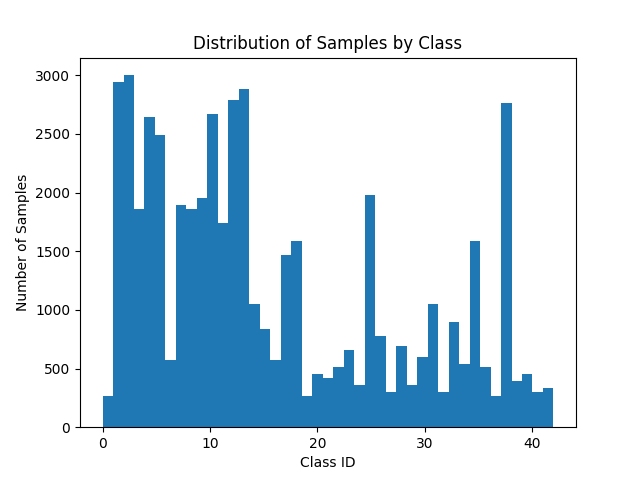
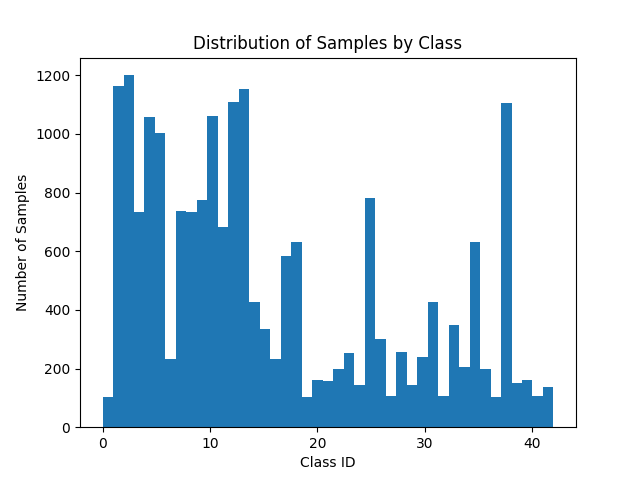
not overfitting

diff --git a/preprocess.py b/preprocess.py
@@ -6,7 +6,6 @@ from PIL import Image
 from plot import plot_class_dist_and_stats
 from config import NUM_TRAIN_IMAGES, NUM_TEST_IMAGES, NUM_TOTAL_IMAGES, IMAGE_DIM, N_CLASS
 
-
 def preprocess():
     processed_path = 'Data/ProcessedData'
     X_processed_path = os.path.join(processed_path, 'X.npy')
@@ -26,9 +25,6 @@ def preprocess():
       print("X_processed and Y_processed already exist, loading from files")
       X_processed = np.load(X_processed_path)
       Y_processed = np.load(Y_processed_path)
-
-      assert X_processed.shape == (NUM_TOTAL_IMAGES, 3, IMAGE_DIM, IMAGE_DIM)
-      assert Y_processed.shape == (NUM_TOTAL_IMAGES,)
 
       print("X_processed, Y_processed loaded successfully")
 
@@ -56,9 +52,18 @@ def preprocess():
 
         for _ , row in df.iterrows():
 
+          # for each physical sign in the training sets, there are 30 images that create a"track"
+          # (frames of a short clip) so training/ testing on all of these will cause some overfitting
+          # because they are very similar, thus we will only consider every 5th image so there is less redundant data
+          # image position in track is the second number after underscore in file
+          image_num_in_track = int(row['Filename'][6:11])
+          if image_num_in_track % 5 != 0:
+            continue
+
           # open image up/downsample to standard size and insert into X_train
           # record label in Y_train
           img_path = os.path.join(os.path.join(raw_train_dir, subfolder), row['Filename'])
+
           img = Image.open(img_path).resize((IMAGE_DIM, IMAGE_DIM))
 
           # RGB channel needs to be second to be compatible with torch net
@@ -67,11 +72,6 @@ def preprocess():
           
           index += 1
 
-
-      assert index == NUM_TRAIN_IMAGES
-
-      # np.save(X_train_path, X_train)
-      # np.save(Y_train_path, Y_train)
 
       print("X training and Y training processed successfully")
       print("processing testing portion")
@@ -98,10 +98,11 @@ def preprocess():
 
         # print some updates to console
         if index % 500 == 0:
-          print("processed", index, "testing images")
+          print("processed", index, "images")
 
 
-      assert index == NUM_TOTAL_IMAGES
+      X_processed = X_processed[:index]
+      Y_processed = Y_processed[:index]
 
       np.save(X_processed_path, X_processed)
       np.save(Y_processed_path, Y_processed)
@@ -113,7 +114,7 @@ def preprocess():
     print('\nCombined Dataset Statistics -----------------------------------------')
     plot_class_dist_and_stats(Y_processed, N_CLASS, 'plots/original_distribution.png')
     
-    return X_processed, Y_processed
+    return X_processed, Y_processed, Y_processed.shape[0]
     
 
 def rebalance(X_processed, Y_processed):

diff --git a/TrafficSignDataset.py b/TrafficSignDataset.py
@@ -6,7 +6,7 @@ from torchvision import datasets, models, transforms
 from torch.utils.data.dataset import Dataset
 from sklearn.utils import shuffle
 
-from config import NUM_TOTAL_IMAGES, TRAIN_RATIO, VAL_RATIO, NUM_BATCHES
+from config import TRAIN_RATIO, VAL_RATIO, NUM_BATCHES
 
 
 class TrafficSignDataset(Dataset):
@@ -38,14 +38,14 @@ def dataLoader(X_processed, Y_processed, TOTAL_IMAGES):
 
     train_range = (0, TRAIN_SPLIT_SIZE)
     val_range = (TRAIN_SPLIT_SIZE, TRAIN_SPLIT_SIZE + VAL_SPLIT_SIZE)
-    test_range = (TRAIN_SPLIT_SIZE + VAL_SPLIT_SIZE, NUM_TOTAL_IMAGES)
+    test_range = (TRAIN_SPLIT_SIZE + VAL_SPLIT_SIZE, TOTAL_IMAGES)
 
     train_data = TrafficSignDataset(X_processed, Y_processed, train_range)
     val_data = TrafficSignDataset(X_processed, Y_processed, val_range)
     test_data = TrafficSignDataset(X_processed, Y_processed, test_range)
 
-    train_loader = DataLoader(train_data, batch_size=int(TRAIN_SPLIT_SIZE / (NUM_BATCHES - 1)))
-    val_loader = DataLoader(val_data, batch_size=int(VAL_SPLIT_SIZE / (NUM_BATCHES - 1)))
+    train_loader = DataLoader(train_data, batch_size=int(TRAIN_SPLIT_SIZE / (NUM_BATCHES - 1)), shuffle=True)
+    val_loader = DataLoader(val_data, batch_size=int(VAL_SPLIT_SIZE / (NUM_BATCHES - 1)), shuffle=True)
     test_loader = DataLoader(test_data, batch_size=1)
     
     return train_loader, val_loader, test_loader

diff --git a/helper.py b/helper.py
@@ -125,7 +125,7 @@ def cal_accuracy(test_loader, net, test_set=False):
             ax.set_title('Model Accuracy on Test Set by Class')
             ax.legend()
 
-            plt.ylim(bottom=0.50)
+            plt.ylim(bottom=np.maximum(0, np.min(accuracy_per_class) - 0.05))
             plt.savefig('plots/test_set_accuracy.png')
 
             # calculate statistcs

diff --git a/run.py b/run.py
@@ -24,7 +24,7 @@ def main():
     setupGPU()
 
     # Process our dataset
-    X_processed, Y_processed = preprocess()
+    X_processed, Y_processed, TOTAL_IMAGES = preprocess()
     # Normalize class distribution
     X_processed, Y_processed, TOTAL_IMAGES = rebalance(X_processed, Y_processed)
     # Print a summary of Neural Network

diff --git a/config.py b/config.py
@@ -16,7 +16,7 @@ LEARNING_RATE = 1e-5
 WEIGHT_DECAY = 1e-5
 NUM_EPOCHS = 20
 DROPOUT_PROB = 0.4
-NUM_BATCHES = 80
+NUM_BATCHES = 60
 
 ### DO NOT CHANGE CONSTANTS BELOW THIS LINE
 
